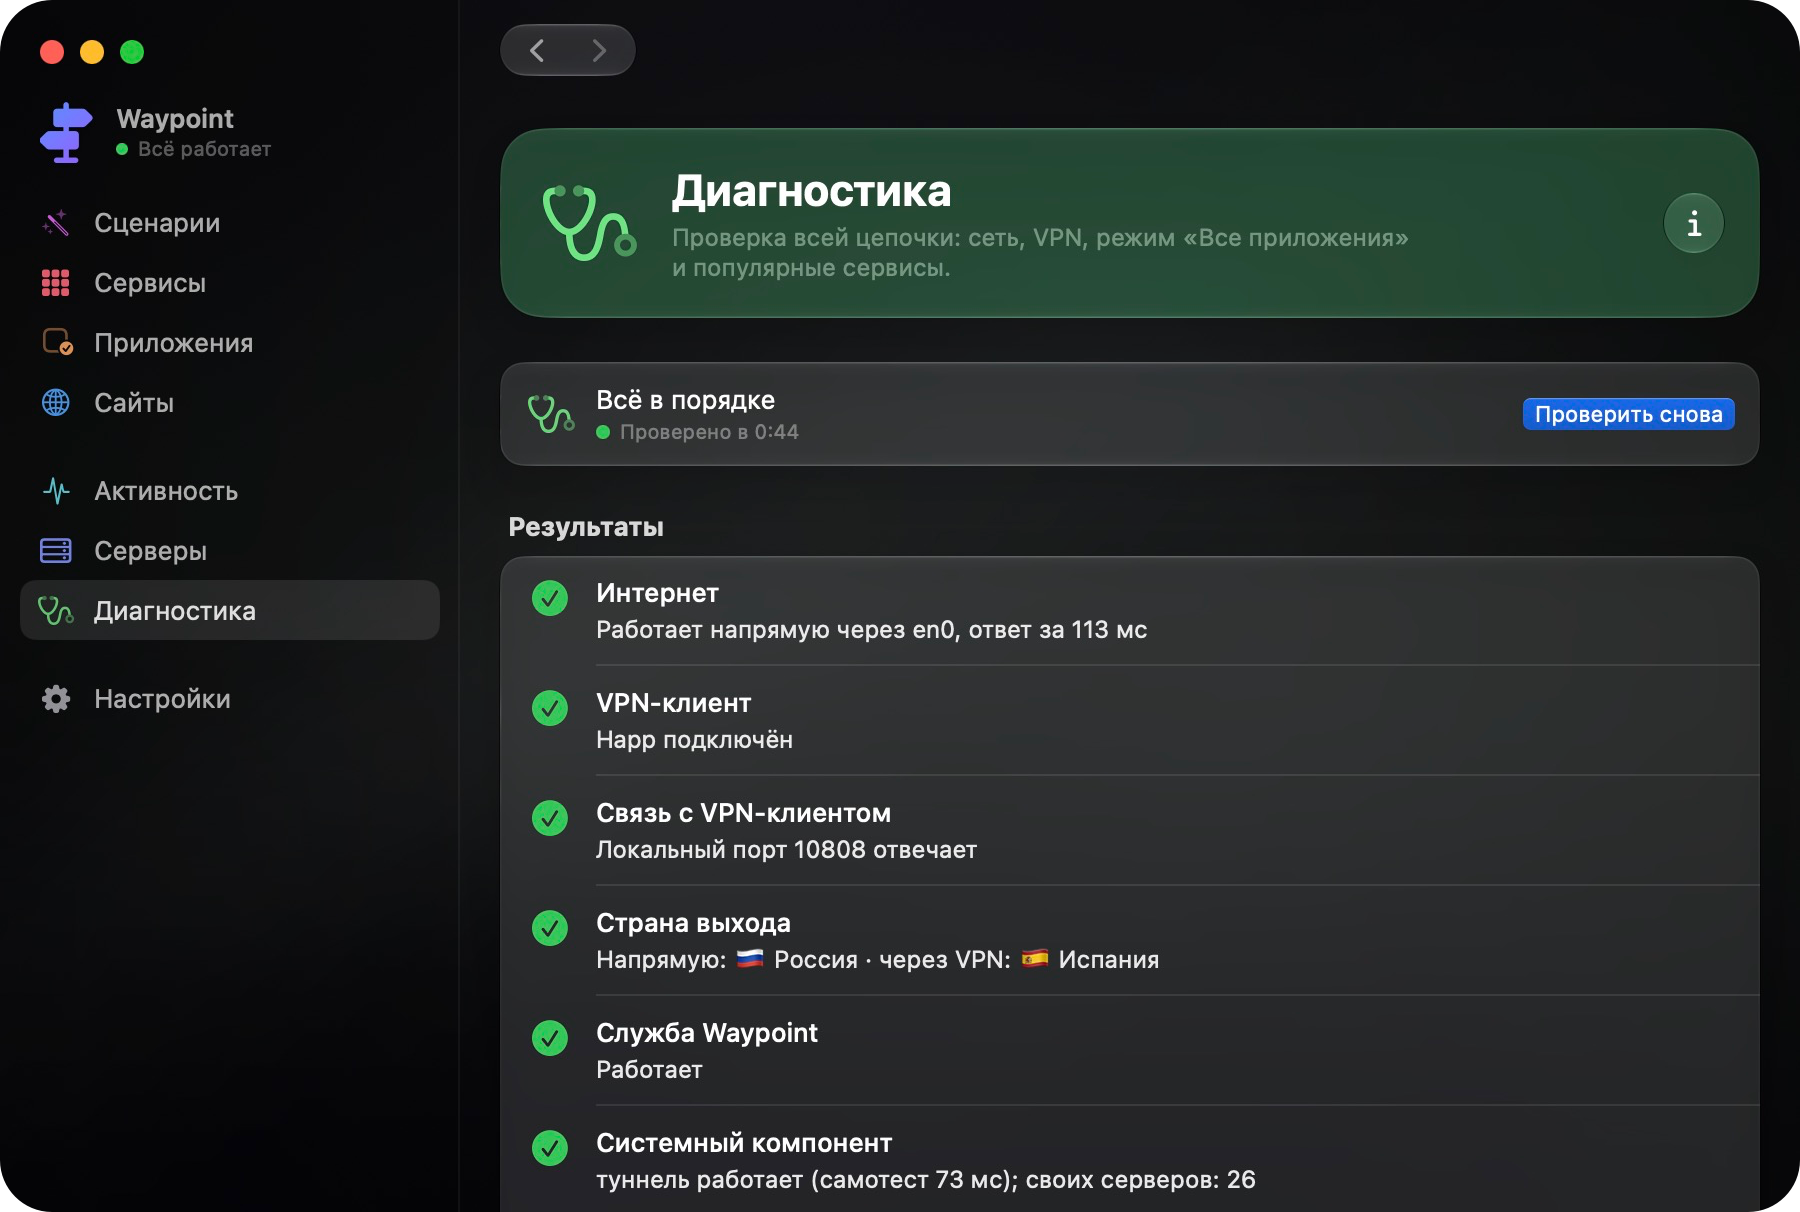
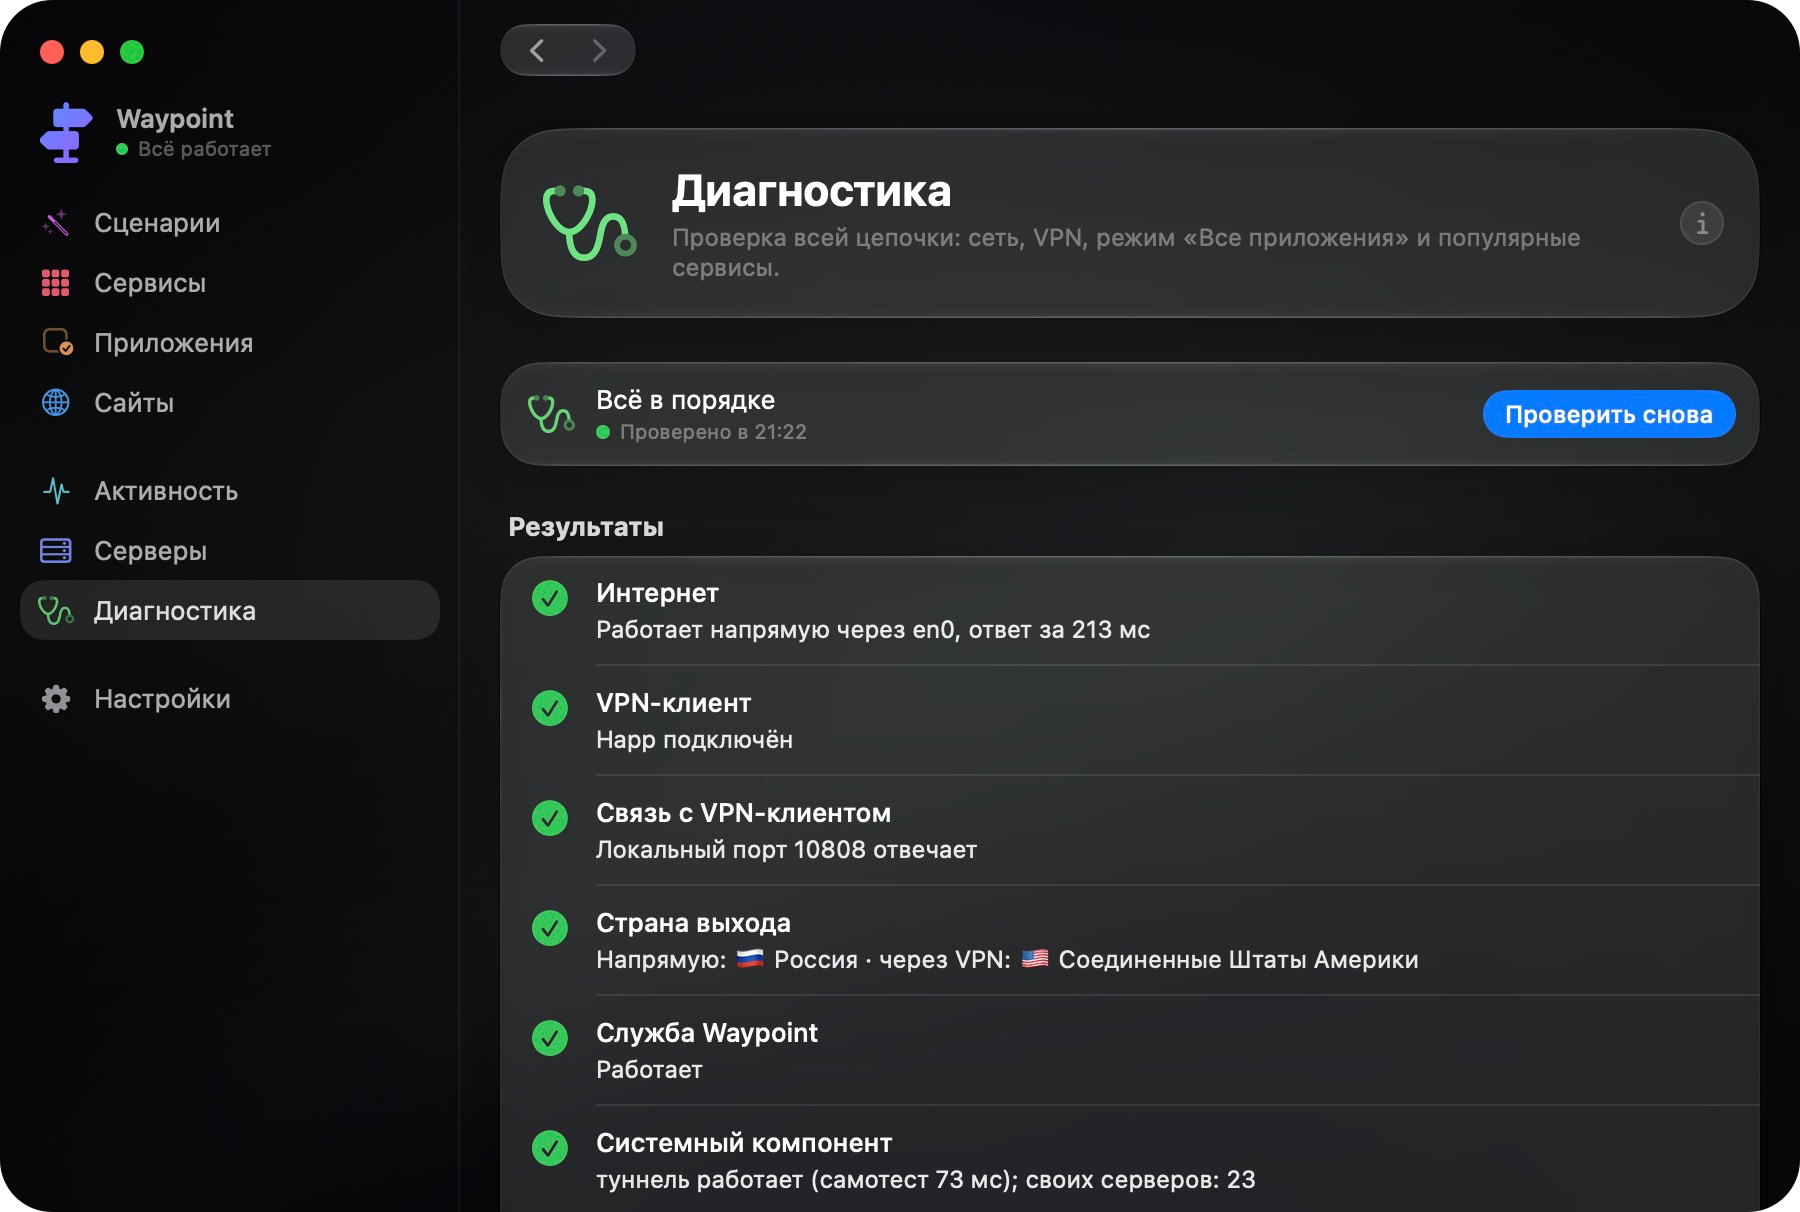
Release 0.3.0: dmg packaging, short country names, site install steps and screenshots

diff --git a/docs/index.html b/docs/index.html
@@ -261,10 +261,10 @@
     </div>
     <div class="reveal">
       <ol class="steps">
-        <li><b>Скачайте и распакуйте.</b> Архив <code>Waypoint-…-macos-arm64.zip</code> лежит на <a href="https://github.com/Zent0rn0/Waypoint/releases/latest" style="text-decoration:underline">странице релизов</a>. Перенесите <code>Waypoint.app</code> в папку <code>~/Applications</code>.</li>
+        <li><b>Скачайте образ.</b> Файл <code>Waypoint-…-macos-arm64.dmg</code> лежит на <a href="https://github.com/Zent0rn0/Waypoint/releases/latest" style="text-decoration:underline">странице релизов</a>. Откройте его и перетащите Waypoint в папку «Программы». Там же есть архив <code>.zip</code>, если он удобнее.</li>
         <li><b>Снимите блокировку macOS.</b> Программа не подписана Apple, поэтому система её блокирует. Один раз выполните в Терминале:
-<pre><code>xattr -dr com.apple.quarantine ~/Applications/Waypoint.app</code></pre></li>
-        <li><b>Откройте Waypoint.</b> Чтобы он работал со всеми программами, нажмите «Установить» на главном экране и введите пароль от Mac. Это делается один раз.</li>
+<pre><code>xattr -dr com.apple.quarantine /Applications/Waypoint.app</code></pre></li>
+        <li><b>Откройте Waypoint.</b> Значок появится в строке меню вверху экрана. Чтобы он работал со всеми программами, нажмите «Установить» на главном экране и введите пароль от Mac. Это делается один раз.</li>
       </ol>
       <div class="build">
         <p>Или соберите сами:</p>

diff --git a/Sources/WaypointApp/AppModel.swift b/Sources/WaypointApp/AppModel.swift
@@ -837,7 +837,9 @@ final class AppModel {
     }
     static func countryName(_ code: String?) -> String {
         guard let code else { return "—" }
-        return Locale(identifier: "ru_RU").localizedString(forRegionCode: code) ?? code
+        // Short everyday names where the official one does not fit a tile or a status line.
+        let short = ["US": "США", "GB": "Великобритания", "AE": "ОАЭ", "KR": "Южная Корея", "CZ": "Чехия", "NL": "Нидерланды"]
+        return short[code.uppercased()] ?? Locale(identifier: "ru_RU").localizedString(forRegionCode: code) ?? code
     }
 
     /// The VPN client's own app (for its icon), if we know it.

diff --git a/README.md b/README.md
@@ -31,11 +31,13 @@ scripts/bundle.sh                         # собирает build/Waypoint.app 
 cp -R build/Waypoint.app ~/Applications/ && open ~/Applications/Waypoint.app
 ```
 
-Готовая сборка (`Waypoint-<версия>-macos-arm64.zip`) лежит в [Releases](https://github.com/Zent0rn0/Waypoint/releases). Приложение подписано только ad-hoc, поэтому после скачивания macOS его заблокирует: распакуйте, перенесите в `~/Applications` и снимите карантин:
+Готовая сборка лежит в [Releases](https://github.com/Zent0rn0/Waypoint/releases): образ `Waypoint-<версия>-macos-arm64.dmg` (откройте и перетащите Waypoint в «Программы») и тот же `.zip`. Приложение подписано только ad-hoc, поэтому после установки macOS его заблокирует — снимите карантин:
 
 ```bash
-xattr -dr com.apple.quarantine ~/Applications/Waypoint.app
+xattr -dr com.apple.quarantine /Applications/Waypoint.app
 ```
+
+Собрать файлы релиза самому: `scripts/package.sh` (делает `.dmg`, `.zip` и `SHA256SUMS` в `build/`).
 
 Установка системного компонента спрашивает пароль администратора — так и должно быть.
 
@@ -147,7 +149,7 @@ Sources/WaypointCore   Catalog, Policy (сервисы, сценарии, ком
 Sources/waypoint       CLI
 Sources/WaypointApp    приложение: меню-бар + окно (Обзор, Соединения, Приложения, Сценарии, Серверы, Правила, Диагностика, Журнал, Настройки)
 vendor/                sing-box 1.14.2 и Xray-core 26.3.27 — скачиваются scripts/fetch-vendor.sh (в git не входят), SHA-256 закреплены в скрипте и проверяются установщиком
-scripts/               fetch-vendor.sh, bundle.sh, install-daemon.sh, uninstall-daemon.sh, make-icon.swift, make-browser-launcher.sh
+scripts/               fetch-vendor.sh, bundle.sh, package.sh, install-daemon.sh, uninstall-daemon.sh, make-icon.swift, make-browser-launcher.sh
 ```
 
 `swift test --scratch-path /tmp/wp-build` — тесты (в `~/Documents` подпись тестового бандла падает из-за атрибутов iCloud, поэтому сборка во временный каталог).
